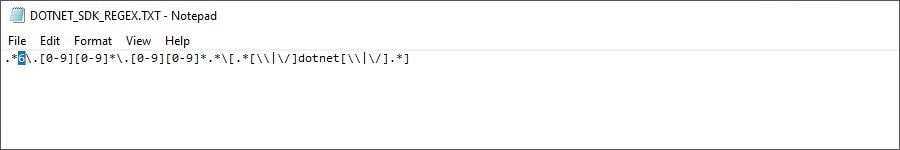
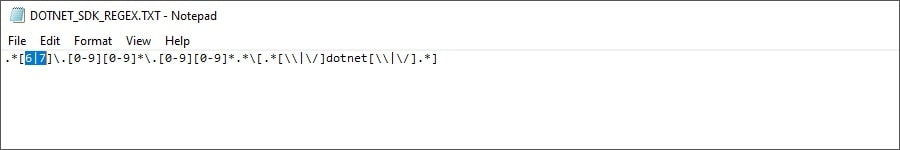
Updated regex files to recognize .NET 7 SDK and Runtime.

Changed region(s): [[0.0, 0.32, 0.4978, 0.4533]]

diff --git a/pages/TechnicalPaper/TechnicalPaper.html b/pages/TechnicalPaper/TechnicalPaper.html
@@ -113,9 +113,9 @@
           After doing this, right-click on the EamonPM.WindowsUnix project and choose Clean.&nbsp; Then right-click on the project and select Build.&nbsp; If you receive no errors, Eamon CS should now work with your installed .NET.
        </p>
        <p>
-          Additionally, you will need to modify two files in the System\Bin directory that allow the QuickLaunch facility to autodetect .NET Core correctly. Simply change the value highlighted in the following screenshots to your major
-          .NET version (e.g., use 2 for .NET Core 2.1), then save the files.
-	   </p>
+          Additionally, you will need to modify two files in the System\Bin directory that allow the QuickLaunch facility to autodetect .NET Core correctly. Simply change the value highlighted in the following screenshots to include
+          your major .NET version (e.g., use 2|6|7 for added .NET Core 2.1 support), then save the files.
+       </p>
        <br />
        <div style="text-align: center;"><img style="max-width: 100%; max-height: 100%;" title="UpdateRegex.jpg" alt="UpdateRegex.jpg" src="../../assets/images/TechnicalPaper/UpdateRegex.jpg" /></div>
        <br />
